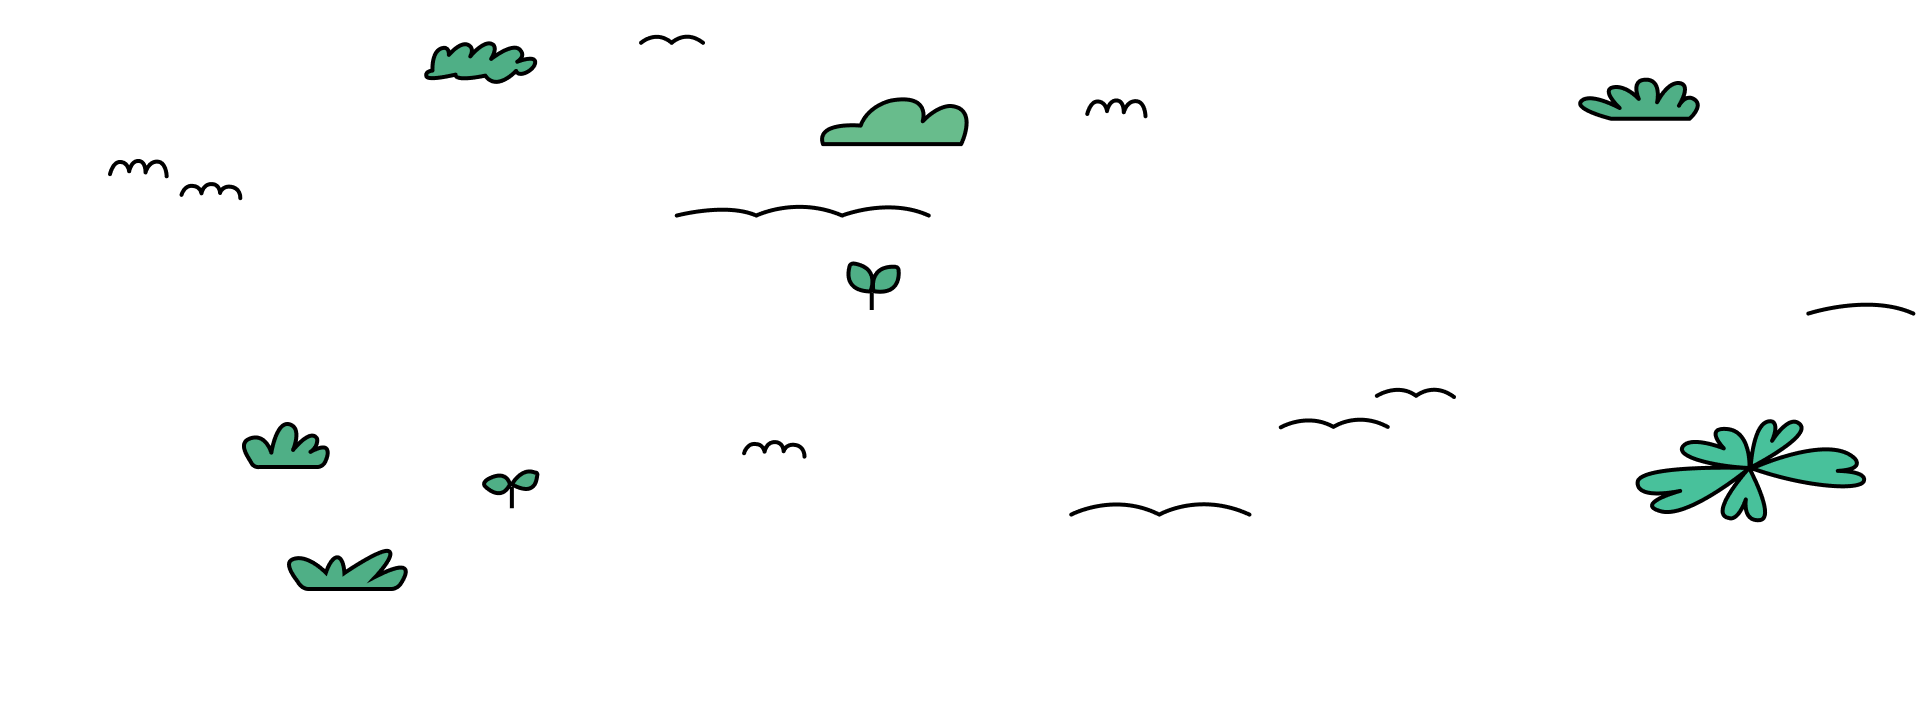
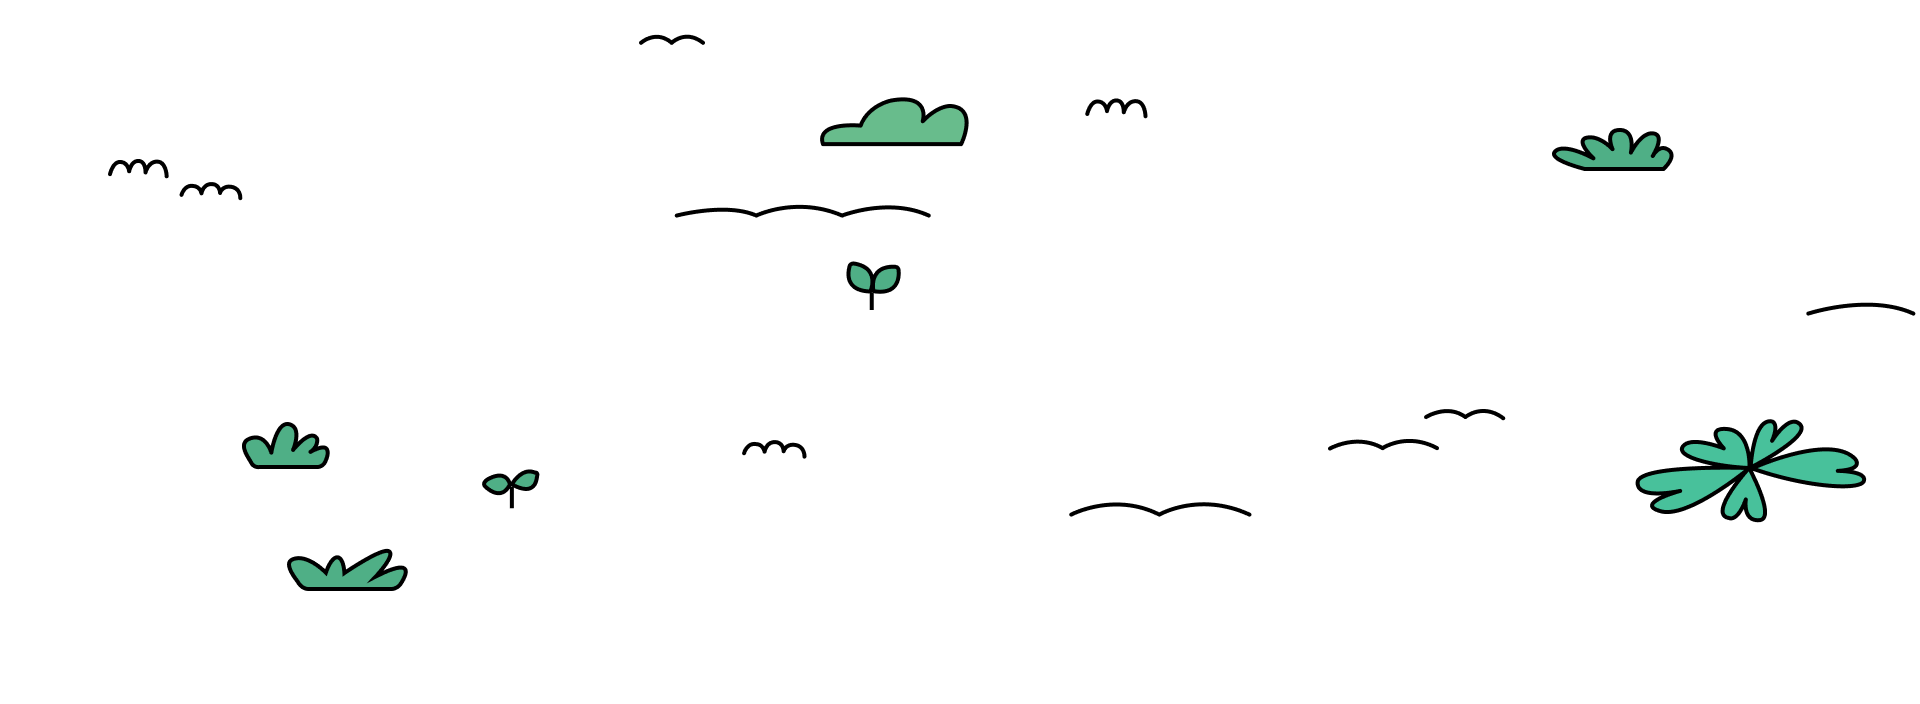
bbbb

diff --git a/css/main_style.css b/css/main_style.css
@@ -622,8 +622,8 @@ aside.overlay-mode .close-btn,
 
 .main_page .dotory_tree_a {
   position: absolute;
-  top: 314px;
-  right: 244px;
+  top: 280px;
+  right: 258px;
   z-index: 30;
 }
 
@@ -659,13 +659,13 @@ aside.overlay-mode .close-btn,
 
 .main_page .f_gen_p {
   position: absolute;
-  top: 220px;
+  top: 240px;
   left: 360px;
 }
 
 .main_page .f_gen_y_b {
   position: absolute;
-  top: 230px;
+  top: 260px;
   right: 200px;
 }
 
@@ -741,7 +741,7 @@ aside.overlay-mode .close-btn,
 
 .uxui_page>.uxuiobj .apple_a {
   position: absolute;
-  top: 300px;
+  top: 318px;
   left: 850px;
 }
 
@@ -774,7 +774,7 @@ aside.overlay-mode .close-btn,
 .uxui_page>.uxuiobj .std_drg_web {
   position: absolute;
   top: 180px;
-  left: 250px;
+  left: 260px;
   cursor: pointer;
   width: 200px;
   height: 400px;
@@ -1124,14 +1124,14 @@ aside.overlay-mode .close-btn,
 
 .promo_page>.promoobj .F_tulip_y {
   position: absolute;
-  top: 480px;
-  right: 600px;
+  top: 470px;
+  right: 580px;
 }
 
 .promo_page>.promoobj .F_gen_y {
   position: absolute;
-  top: 220px;
-  left: 500px;
+  top: 260px;
+  left: 540px;
 }
 
 /* samsung_promo */
@@ -1330,7 +1330,7 @@ aside.overlay-mode .close-btn,
 
 .visual_design_page .bniobj .f_tulip_p_a {
   position: absolute;
-  top: 238px;
+  top: 280px;
   left: 210px;
 }
 
@@ -1348,7 +1348,7 @@ aside.overlay-mode .close-btn,
 
 .visual_design_page .bniobj .f_gen_p_leaf {
   position: absolute;
-  top: 220px;
+  top: 260px;
   right: 350px;
 }
 
